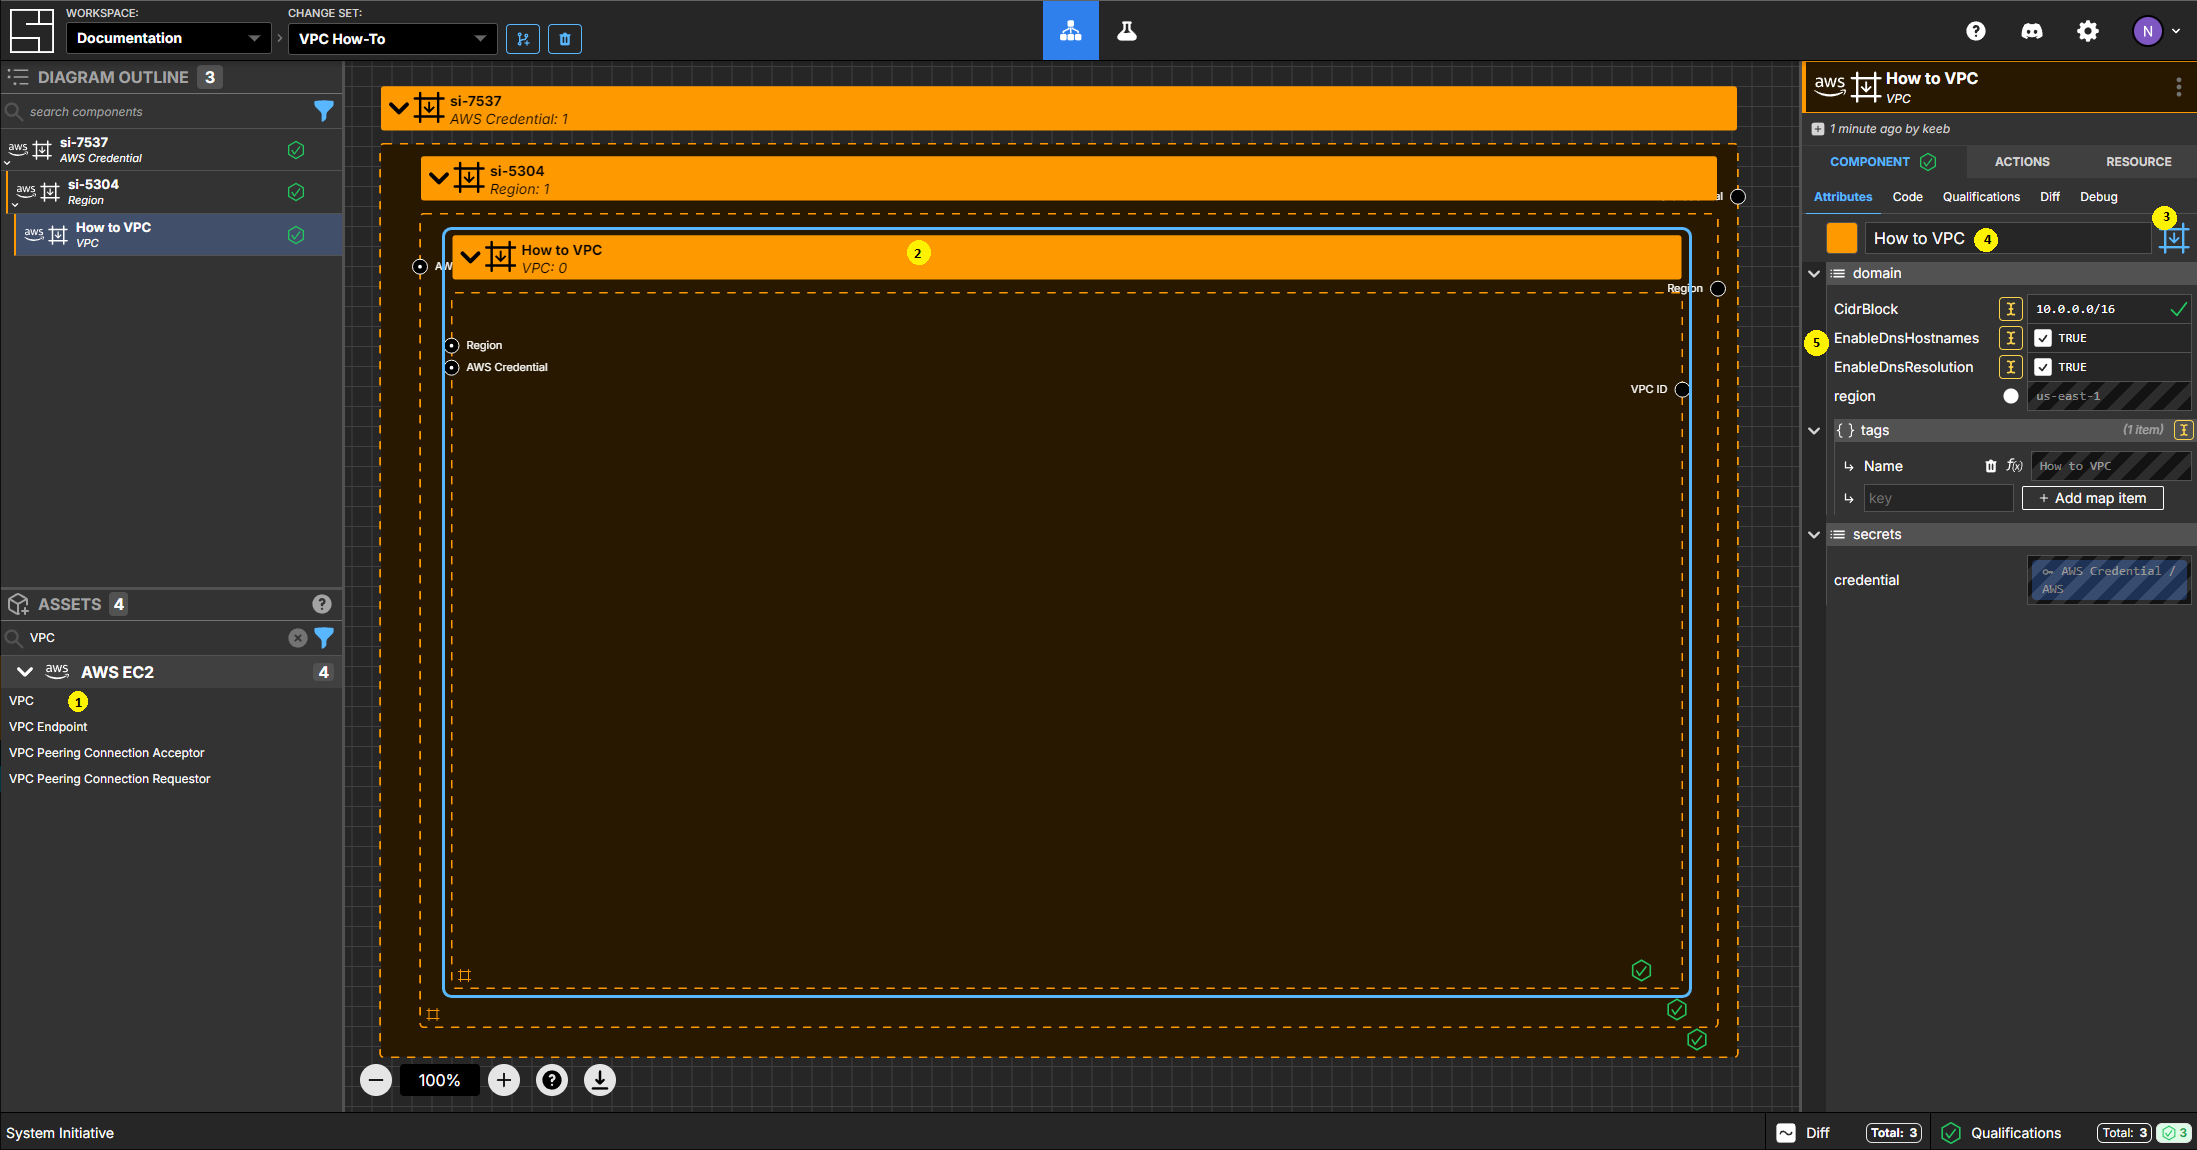
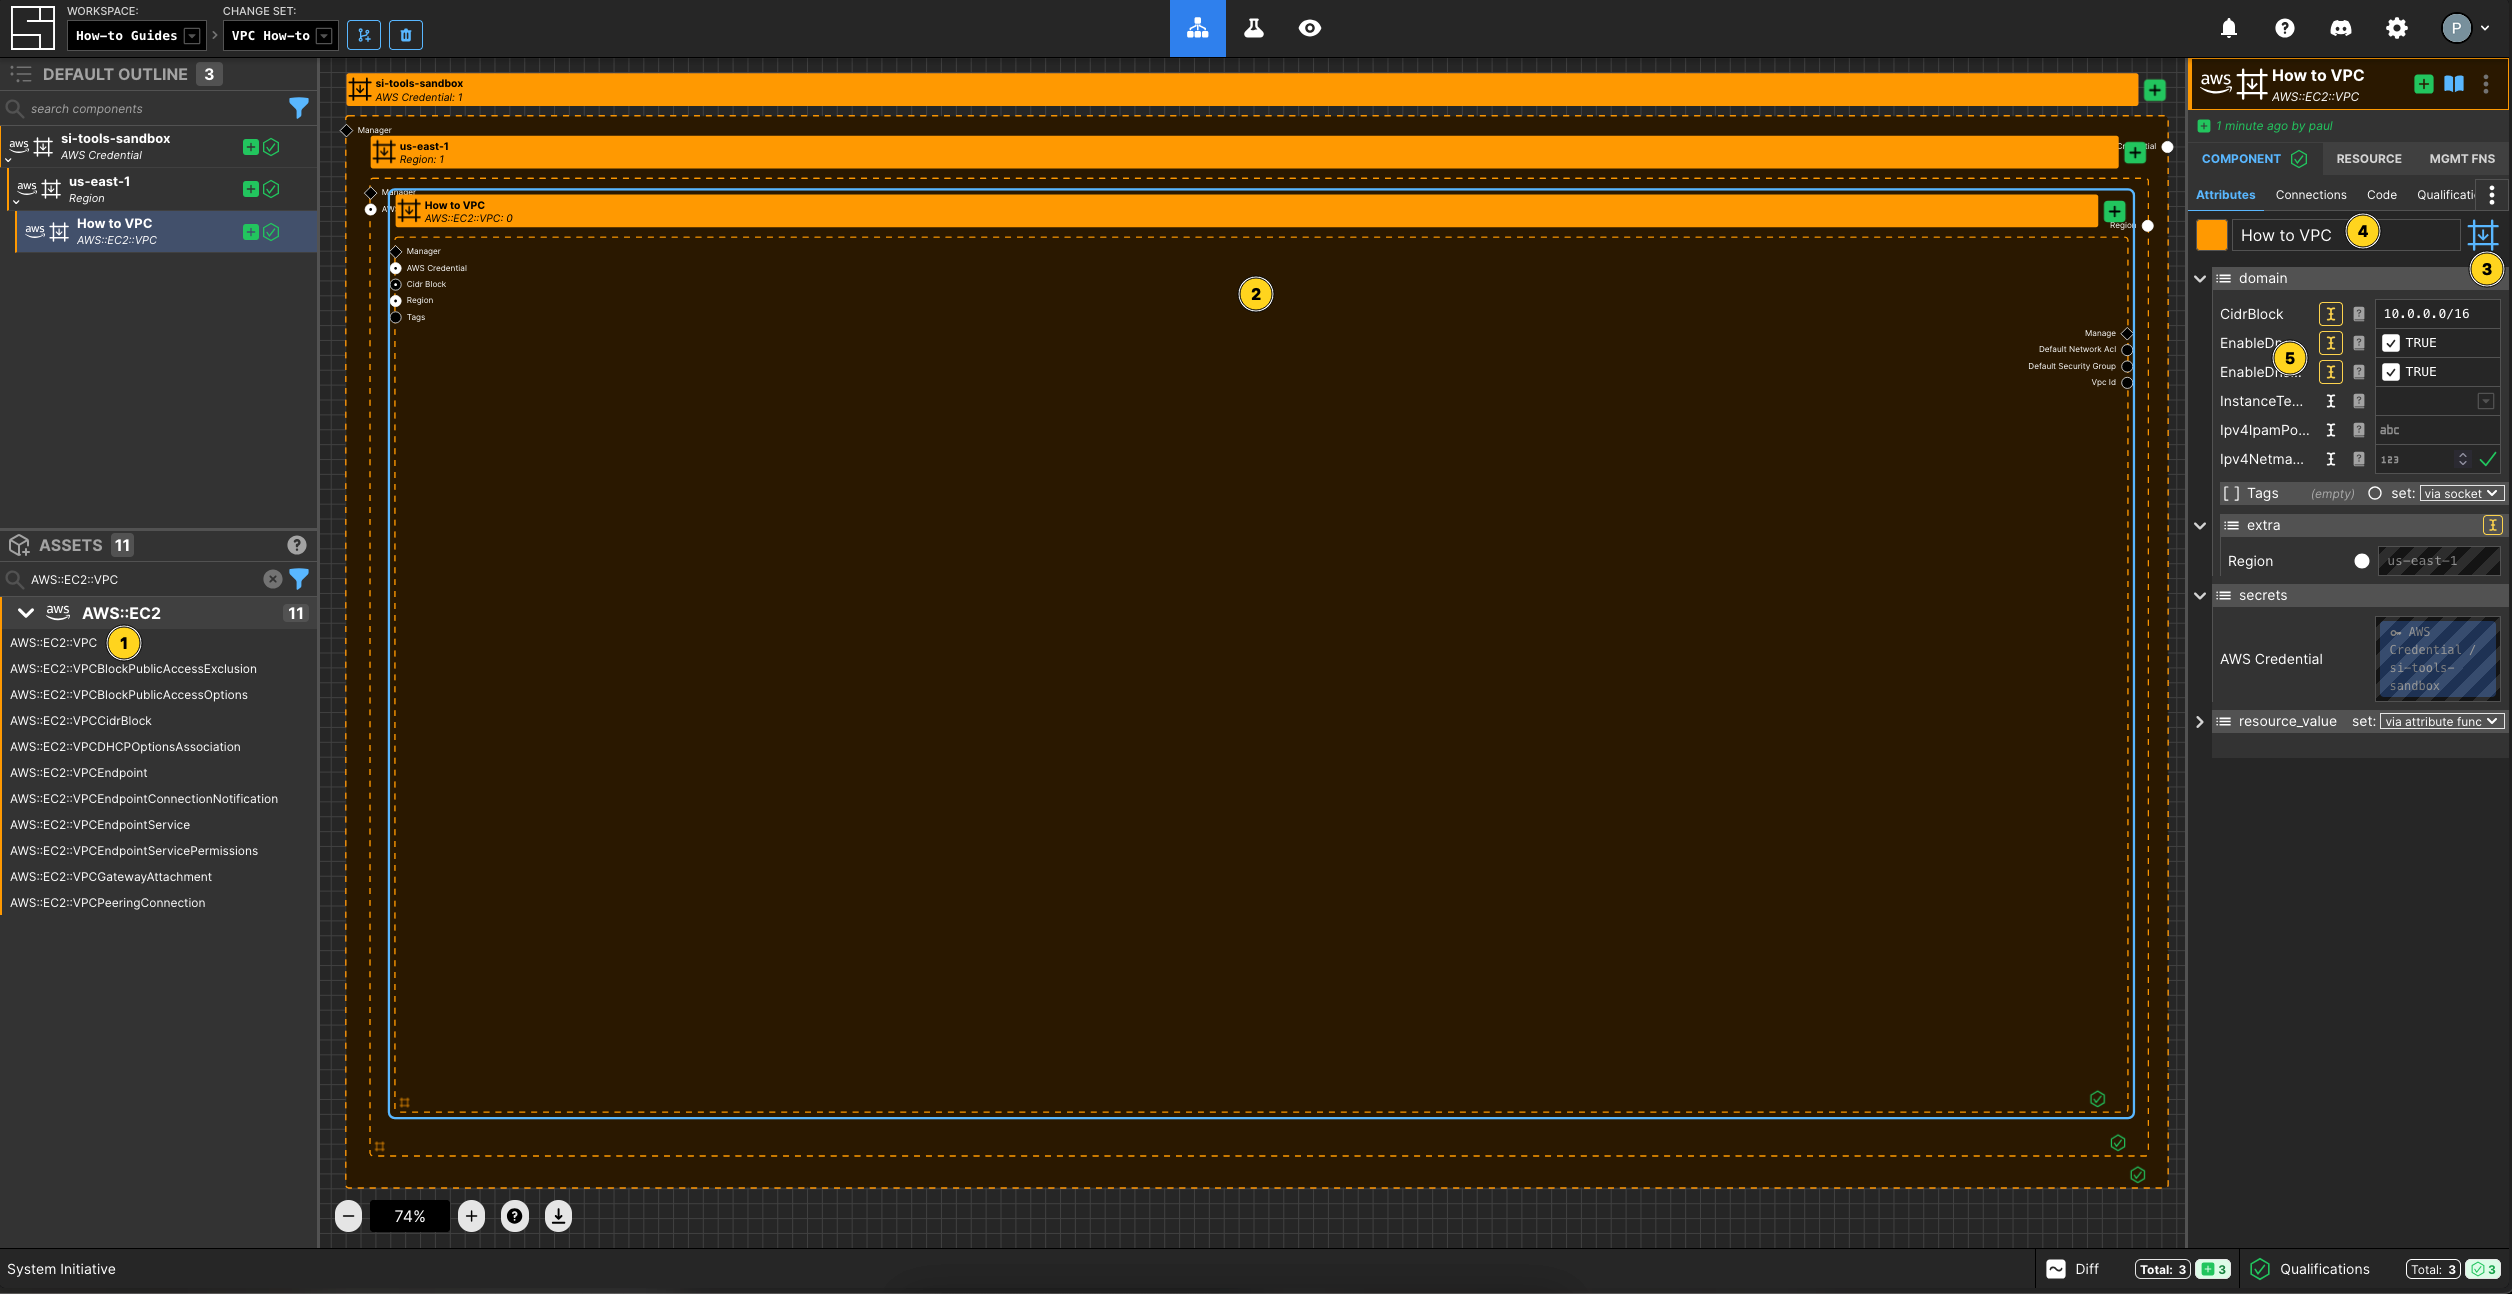
feat(docs): Update AWS VPC How-to for new AWS Assets

Changed region(s): [[0.0, 0.0, 1.0, 1.0], [0.0, 0.9739, 0.0619, 1.0]]

diff --git a/app/docs/src/how-tos/aws-vpc.md b/app/docs/src/how-tos/aws-vpc.md
@@ -38,7 +38,7 @@ Create a Change Set named `VPC How-to`.
 
 ### Create AWS Credentials
 
-Add a `AWS Credential` to your Change Set and configure your AWS credentials
+Add an `AWS Credential` to your Change Set and configure your AWS credentials
 
 <video src="./aws-vpc/create-aws-credential.mp4" controls></video>
 
@@ -53,7 +53,7 @@ Add a `AWS Region` to your Change Set and set the `region` property to
 
 ![Create a VPC Component](./aws-vpc/create-a-vpc-component.png)
 
-Add a `VPC` to your `us-east-1` region frame.
+Add a `AWS::EC2::VPC` to your `us-east-1` region frame.
 
 Set the Component type to be `Down Frame` and expand it to fill the region
 frame.
@@ -70,14 +70,14 @@ Enable `EnableDnsResolution`.
 
 ![Create the Public Subnet Components](./aws-vpc/create-public-subnet.png)
 
-This VPC will span multiple availability zones in our AWS Region. Add 3 `Subnet`
-Components to your VPC frame and configure them as follows:
+This VPC will span multiple availability zones in our AWS Region. Add 3
+`AWS::EC2::Subnet` Components to your VPC frame and configure them as follows:
 
-| Component Name | `CidrBlock`   | `AvailabilityZone` | `IsPublic` |
-| -------------- | ------------- | ------------------ | ---------- |
-| Public 1       | 10.0.128.0/20 | us-east-1a         | true       |
-| Public 2       | 10.0.144.0/20 | us-east-1b         | true       |
-| Public 3       | 10.0.160.0/20 | us-east-1c         | true       |
+| Component Name | `CidrBlock`   | `AvailabilityZone` | `MapPublicIpOnLaunch` |
+| -------------- | ------------- | ------------------ | --------------------- |
+| Public 1       | 10.0.128.0/20 | us-east-1a         | true                  |
+| Public 2       | 10.0.144.0/20 | us-east-1b         | true                  |
+| Public 3       | 10.0.160.0/20 | us-east-1c         | true                  |
 
 Set the Component type for each of the public subnet Components to be
 `Configuration Frame (down)`.
@@ -86,20 +86,24 @@ Set the Component type for each of the public subnet Components to be
 
 ![Create the NAT Gateway Components](./aws-vpc/create-nat-gateway.png)
 
-Add a `NAT Gateway` Component to each of the `Public` subnet frames.
+Add a `AWS::EC2::NATGateway` Component to each of the `Public` subnet frames.
 
 Set name names of the Component to be `NAT Gateway (1|2|3)` - the index should
 align with the subnet it is inside.
+
+Set the `ConnectivityType` of each of the NAT Gateway Components to be `public`.
 
 ### Create the Elastic IPs for each NAT Gateway
 
 ![Create the Elastic IPs for each NAT Gateway](./aws-vpc/create-elastic-ip.png)
 
-To each of the `Public` subnet frames, add an `Elastic IP` Component.
+To each of the `Public` subnet frames, add an `AWS::EC2::EIP` Component.
 
 Set the names of the Components to be `NAT Gateway IP (1|2|3)` - the index
 should align with the subnet it is inside, and match the `NAT Gateway`
 Component.
+
+Set the `Domain` of each of the Elastic IP Components to be `vpc`.
 
 Connect the `Allocation ID` Output Socket of the `Elastic IP` Component to the
 `Allocation ID` Input Socket of the `NAT Gateway` Component. The connections
@@ -109,7 +113,7 @@ should be in the same subnet.
 
 ![Create the Public Route Table Component](./aws-vpc/create-public-route-table.png)
 
-Add a `Route Table` Component to the VPC frame.
+Add a `AWS::EC2::RouteTable` Component to the VPC frame.
 
 Set the Component type to be `Configuration Frame (down)`.
 
@@ -118,11 +122,23 @@ Set the Component name to be `Public Route Table`.
 Connect the `Subnet ID` Output Socket of the Public `Subnet` Components to the
 `Subnet ID` Input Socket of the `Public Route Table` Component.
 
+Add 3 `AWS::EC2::SubnetRouteTableAssociation` components to the
+`Public Route Table` component.
+
+Set the Component type to be `Configuration Frame (down)`.
+
+Set the Component name to be `Public (1|2|3) Association`.
+
+Connect the corresponding `Subnet ID` Output Socket of the Public `Subnet`
+Components to the `Subnet ID` Input Socket of the correct
+`Public Subnet Route Table Association` Component. e.g. Public Subnet 1 connects
+to Public Subnet 1 Association
+
 ### Create a Route Component
 
 ![Create a Route Component](./aws-vpc/create-route.png)
 
-Add a `Route` Component to the `Public Route Table` frame.
+Add a `AWS::EC2::Route` Component to the `Public Route Table` frame.
 
 Set the Component name to be `Route to Internet`.
 
@@ -132,19 +148,26 @@ Set `DestinationCidrBlock` to be `0.0.0.0/0`.
 
 ![Create IGW](./aws-vpc/create-igw.png)
 
-Add an `Internet Gateway` Component to the VPC frame.
+Add an `AWS::EC2::InternetGateway` Component to the VPC frame.
 
 Set the name to be `IGW`.
+
+Add an `AWS::EC2::VPCGatewayAttachment` Component to the VPC frame.
+
+Set the name to be `Gateway VPC Attachment`.
 
 Connect the `Gateway ID` Output Socket of the `IGW` Component to the
 `Gateway ID` Input Socket of the `Route to Internet` Component in the
 `Public Route Table` frame.
 
+Connect the `Internet Gateway ID` Output Socket of the `IGW` Component to the
+`Internet Gateway ID` Input Socket of the `Gateway VPC Attachment` Component.
+
 ### Create the Private Subnet Components
 
 ![Create the Private Subnet Components](./aws-vpc/create-private-subnet.png)
 
-Add 3 `Subnet` Components to your VPC frame and configure them as follows:
+Add 3 `AWS::EC2::Subnet` Components to your VPC frame and configure them as follows:
 
 | Component name | `CidrBlock`  | `AvailabilityZone` |
 | -------------- | ------------ | ------------------ |
@@ -159,7 +182,7 @@ Set the Component type for each of the public subnet Components to be
 
 ![Create the Private Route Table Components](./aws-vpc/create-private-route-table.png)
 
-To each of the `Private` subnet frames, add a `Route Table` Component.
+To each of the `Private` subnet frames, add a `AWS::EC2::RouteTable` Component.
 
 Set the name to be `Private Route Table 1(2|3)` - the index should align with
 the subnet frame it is inside.
@@ -171,7 +194,7 @@ Set the Component type for each of the `Private Route Table` Components to be
 
 ![Create the Private Route Components](./aws-vpc/create-private-route.png)
 
-Add a `Route` Component to each of the `Private Route Table` frames.
+Add a `AWS::EC2::Route` Component to each of the `Private Route Table` frames.
 
 Set the Component name to be `Route to Internet (1|2|3)` - the index should
 align with the route table frame it is inside.
@@ -187,6 +210,14 @@ Connect the Output Socket `NAT Gateway ID` of `NAT Gateway 2` Component to the
 Connect the Output Socket `NAT Gateway ID` of `NAT Gateway 3` Component to the
 `NAT Gateway ID` Input Socket of `Route to Internet 3` Component.
 
+### Create the Subnet Route Table Associations
+
+![Create the Subnet Route Table Associations](./aws-vpc/create-subnet-route-table-associations.png)
+
+Add a `AWS::EC2::SubnetRouteTableAssociation` Component to each of the `Private Subnet` frames.
+
+Set the name of each of the association components to be `Private (1|2|3) Assocation`.
+
 ### Apply your Change Set
 
 ![Apply your Change Set](./aws-vpc/apply.png)
@@ -198,13 +229,11 @@ Click the `Apply Change Set` button to:
 
 - Create a VPC Component
 - Create 6 Subnets
-- Create an Internet Gateway
+- Create an Internet Gateway and the VPC Association
 - Create 3 Elastic IPs and 3 NAT Gateways
-- Create 4 Route Tables and 4 Routes
+- Create 4 Route Tables and the subnet associations and 4 Routes
 
 ### Explore your resources
-
-![Explore your resources](./aws-vpc/explore-resources.png)
 
 Review the completed AWS resources by clicking the `Resource` sub-panel for each
 of your new resources.
